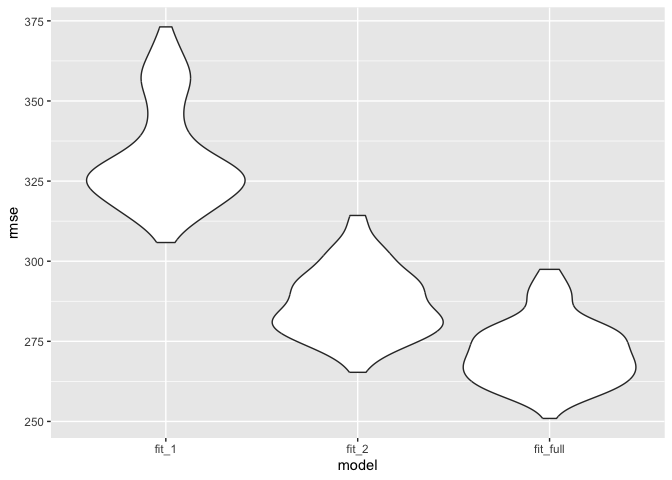
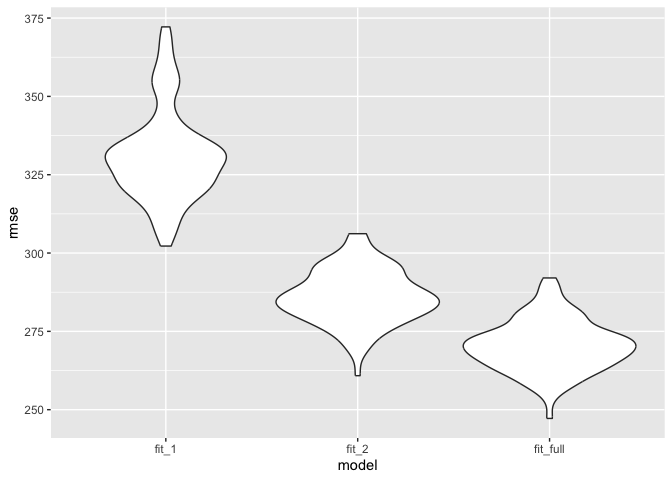
p3 revise

diff --git a/p8105_hw6_hc3451.md b/p8105_hw6_hc3451.md
@@ -1,7 +1,7 @@
 Data Science I Homework 6
 ================
 Huanyu Chen
-2023-11-28
+2023-11-29
 
 # Problem 1
 
@@ -245,12 +245,12 @@ head(result)
     ## # A tibble: 6 × 2
     ##   r_squared log_beta1_2
     ##       <dbl>       <dbl>
-    ## 1     0.896       -5.07
-    ## 2     0.889       -4.60
-    ## 3     0.922      NaN   
-    ## 4     0.908       -4.38
-    ## 5     0.913       -7.22
-    ## 6     0.907      NaN
+    ## 1     0.908      NaN   
+    ## 2     0.906       -5.49
+    ## 3     0.918      NaN   
+    ## 4     0.922       -5.82
+    ## 5     0.892       -4.62
+    ## 6     0.861       -4.95
 
 ## Plot Distributions: r^2
 
@@ -295,7 +295,7 @@ r2_ci
 ```
 
     ##      2.5%     97.5% 
-    ## 0.8884210 0.9408156
+    ## 0.8885303 0.9408828
 
 ``` r
 log_beta12_ci = quantile(pull(result, log_beta1_2),
@@ -304,7 +304,7 @@ log_beta12_ci
 ```
 
     ##      2.5%     97.5% 
-    ## -8.829379 -4.580485
+    ## -9.165065 -4.622434
 
 # Problem 3
 
@@ -411,7 +411,7 @@ birthweight |>
 
 ![](p8105_hw6_hc3451_files/figure-gfm/unnamed-chunk-14-1.png)<!-- -->
 
-# Compare Models
+## Compare Models
 
 ``` r
 model_1 = lm(bwt ~ blength + gaweeks, data = birthweight)
